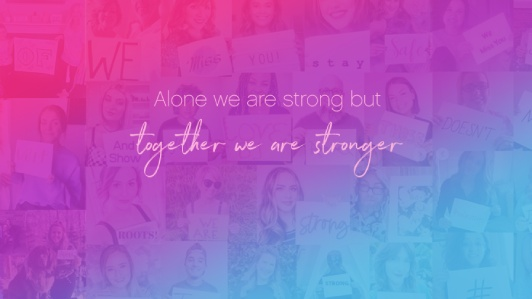
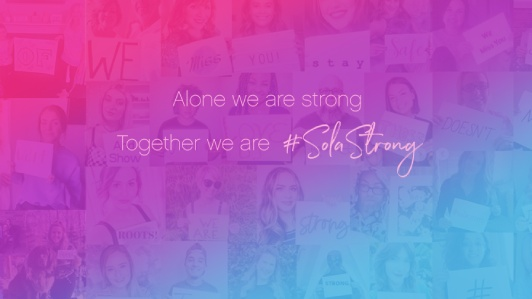
Update Sola Canada home page, update Canada gallery SolaStrong thumbnail, refactor financial guide modern contact form logic, and remove private on models to resend emails from rails c due to SendGrid outage

Changed region(s): [[0.2105, 0.3913, 0.782, 0.602], [0.3008, 0.301, 0.7218, 0.3612]]

diff --git a/app/assets/javascripts/components/ContactForm/ModernSalonContactForm.js.jsx b/app/assets/javascripts/components/ContactForm/ModernSalonContactForm.js.jsx
@@ -342,17 +342,18 @@ var ModernSalonContactForm = React.createClass({
 			this.state[e.target.name] = value;
 		}
 
-		if (e.target.name == 'is_sola_professional') {
-			if (e.target.value == 'yes') {
-				this.state.i_would_like_to_be_contacted = false;
-				this.state.newsletter = false;
-			} else if (e.target.value == 'no') {
-				this.state.i_would_like_to_be_contacted = true;
-				this.state.newsletter = true;
-			}
-		} else {
+		// Hide named checkboxes based on Is Sola Pro selection - check OnSubmit functions below don't conflict if re-enabled  
+		// if (e.target.name == 'is_sola_professional') {
+		// 	if (e.target.value == 'yes') {
+		// 		this.state.i_would_like_to_be_contacted = false;
+		// 		this.state.newsletter = true;
+		// 	} else if (e.target.value == 'no') {
+		// 		this.state.i_would_like_to_be_contacted = true;
+		// 		this.state.newsletter = true;
+		// 	}
+		// } else {
 			
-		}
+		// }
 
 		//console.log('this.state.selected_services', this.state.selected_services);
 
@@ -412,7 +413,7 @@ var ModernSalonContactForm = React.createClass({
     	is_sola_professional: this.state.is_sola_professional,
     	phone: this.state.phone,
     	message: this.state.message,
-    	newsletter: this.state.newsletter,
+    	newsletter: this.state.is_sola_professional == 'yes' ?  false : this.state.newsletter,
     	request_url: this.props.request_url,
     	required_fields: this.props.required_fields,
     	send_email_to_prospect: this.props.send_email_to_prospect,

diff --git a/app/models/request_tour_inquiry.rb b/app/models/request_tour_inquiry.rb
@@ -206,8 +206,6 @@ class RequestTourInquiry < ActiveRecord::Base
     return ''
   end
 
-  private
-
   def send_notification_email
     if i_would_like_to_be_contacted == false && (send_email_to_prospect == 'modern_salon_2019_05' || 'financial_guide')
       p "shhh"

diff --git a/app/models/stylist_message.rb b/app/models/stylist_message.rb
@@ -7,8 +7,6 @@ class StylistMessage < ActiveRecord::Base
   belongs_to :stylist
   belongs_to :visit
 
-  private
-
   def send_email
     if stylist
       email = PublicWebsiteMailer.stylist_message(self)
